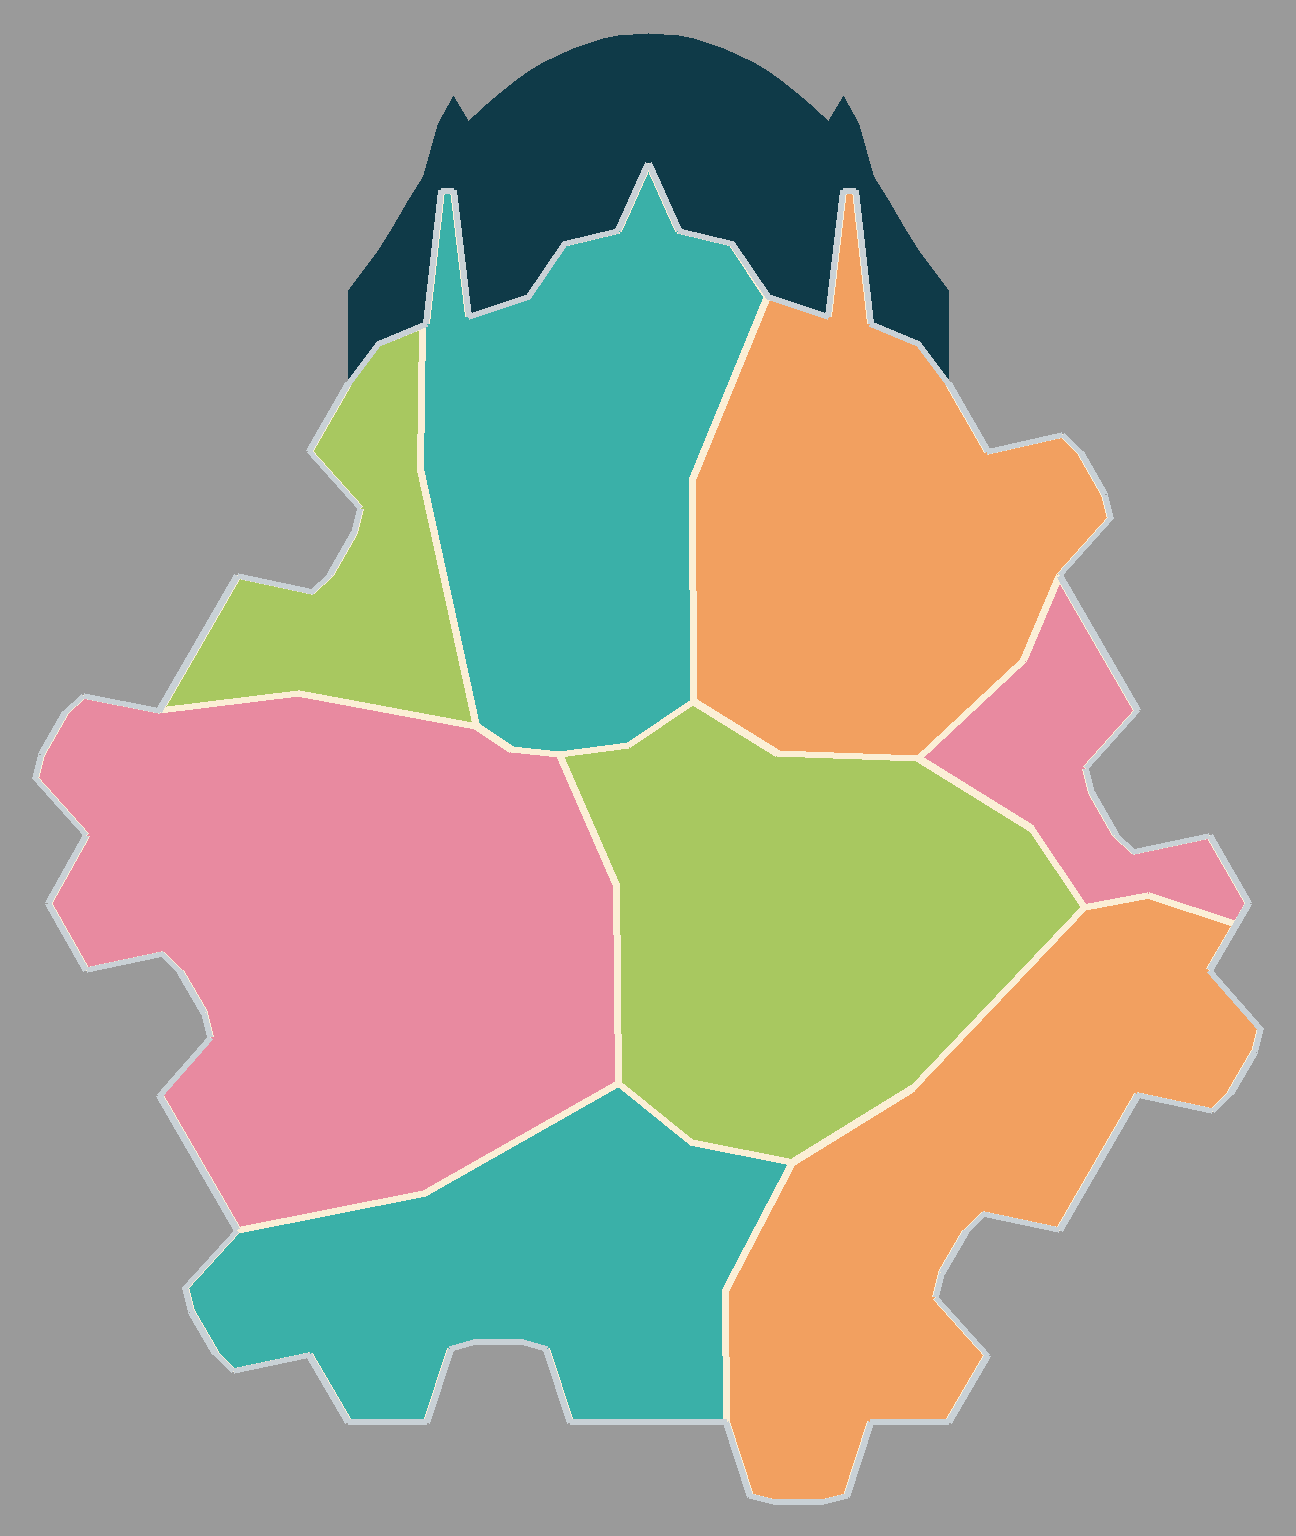
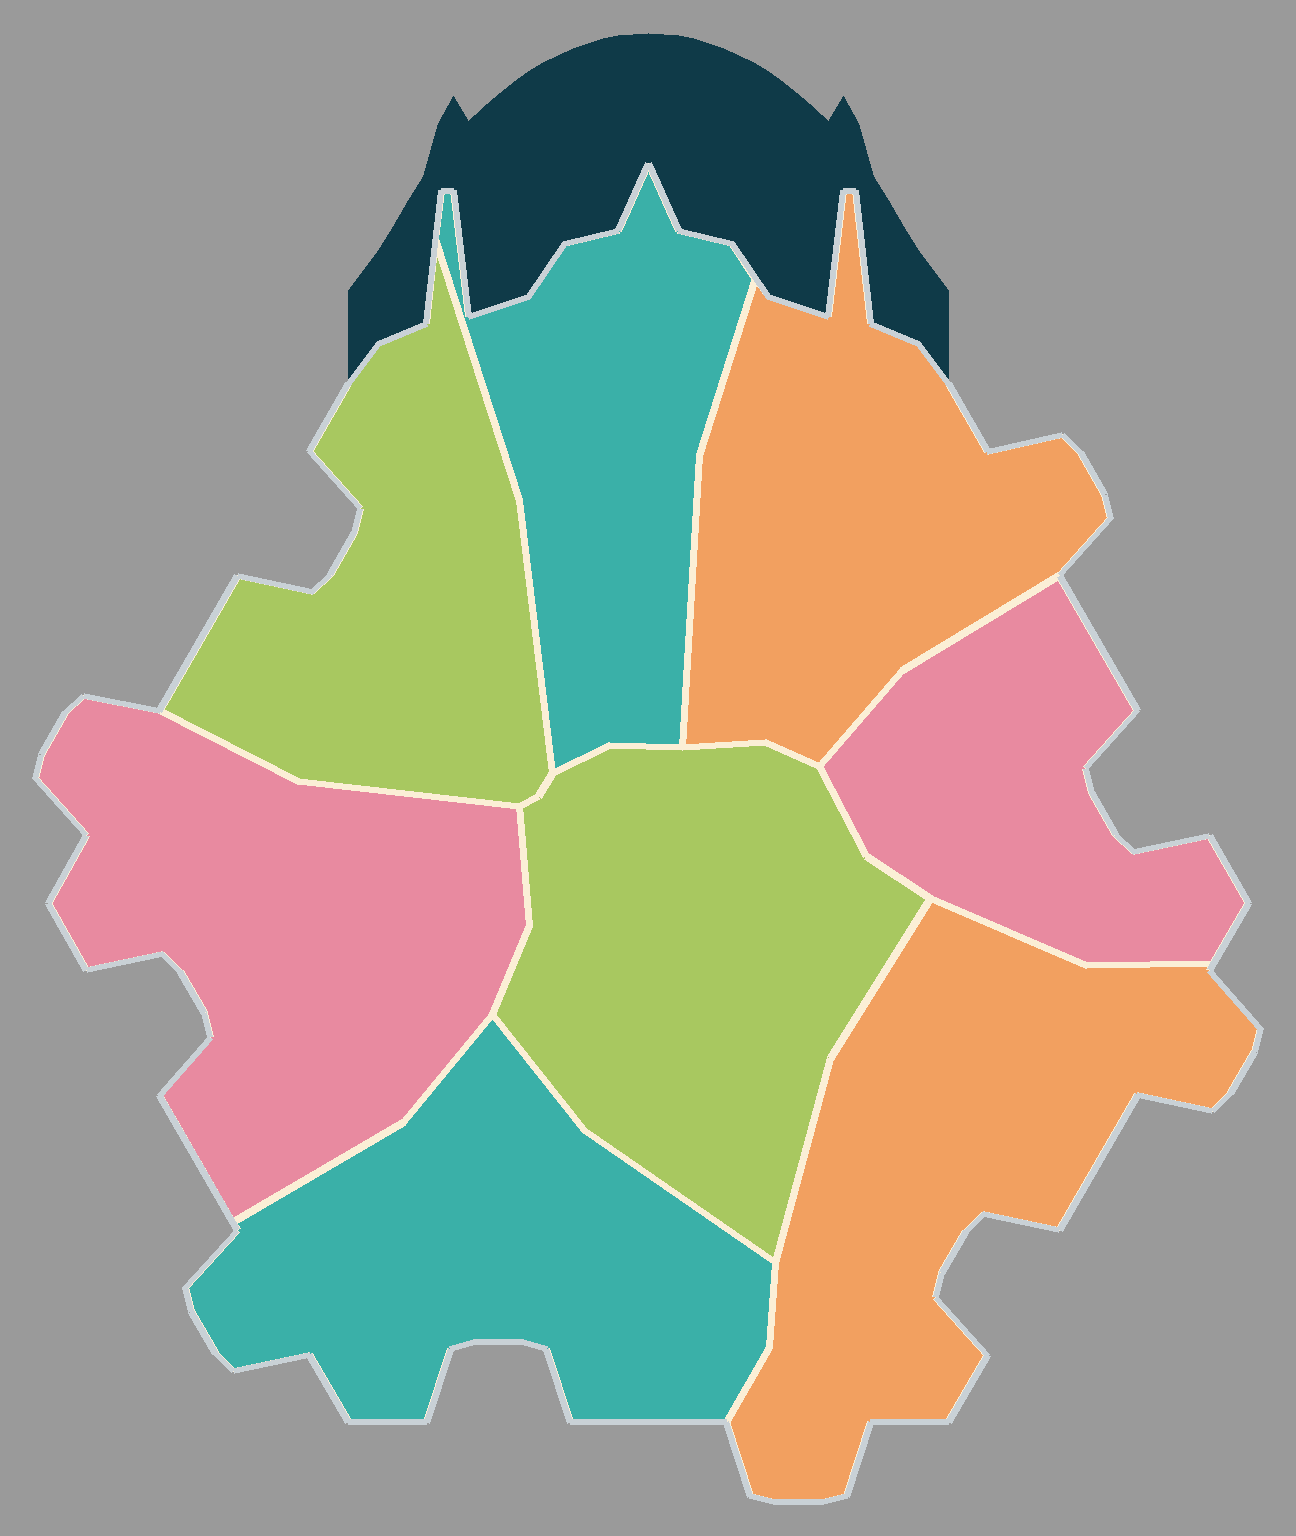
Board C guide redrawn for the evened-out layout; old art kept as board_c_v2_old*; batch 10 (board C repaint) submitted
Claude-Session: https://claude.ai/code/session_014To8X9aHo3rSPP2S9tniN3

Changed region(s): [[0.1235, 0.1562, 0.6173, 0.9375], [0.4938, 0.375, 0.9568, 0.75], [0.5247, 0.1875, 0.5864, 0.3438]]

diff --git a/generation-ship/tools/make_retro_batch.py b/generation-ship/tools/make_retro_batch.py
@@ -79,6 +79,7 @@ HOUSE_LOOK.update(HOUSE_LOOK_2)
 EDITS_8 = {**{f"card_frame_v4{v}": ("card_frame_v4", "card_guide.png", "1104x1504", 1) for v in "ab"},
            **{f"wall_panel_v4{v}": ("wall_panel_v3", "wall_guide.png", "2320x960", 1) for v in "ab"}}
 EDITS_9 = {"board_d_v2": ("board", "board_d_guide.png", "1296x1536", 2)}   # board D reshaped (2026-11-06)
+EDITS_10 = {"board_c_v2": ("board", "board_c_guide.png", "1296x1536", 2)}  # board C evened out (2026-11-06)
 GENERATIONS = {
     "card_back": ("card_back", None, "1104x1504", 1),
     **{f"icon_{t}": (f"icon_{t}", None, "1024x1024", 1) for t in ("infrastructure", "residential", "government", "agricultural")},
@@ -129,14 +130,14 @@ def build(jobs, endpoint, style, ps):
 def main():
     import argparse
     ap = argparse.ArgumentParser()
-    ap.add_argument("--batch", type=int, default=2, choices=(2, 3, 4, 5, 6, 7, 8, 9))
+    ap.add_argument("--batch", type=int, default=2, choices=(2, 3, 4, 5, 6, 7, 8, 9, 10))
     batch = ap.parse_args().batch
-    ps = prompts({7: 6, 9: 2}.get(batch, batch))   # batch 7 reuses batch 6 (house boards), batch 9 batch 2 (boards)
+    ps = prompts({7: 6, 9: 2, 10: 2}.get(batch, batch))   # batch 7 reuses batch 6 (house boards), batch 9 batch 2 (boards)
     if batch == 9:
         ps = prompts(2)                            # batch 9 reuses batch 2's board prompt
     if batch == 8:
         ps = {**prompts(3), **ps}                  # batch 8's Wall reuses batch 3's wall_panel_v3
-    edits, gens = {2: (EDITS, GENERATIONS), 3: (EDITS_3, GENERATIONS_3), 4: ({}, GENERATIONS_4), 5: (EDITS_5, {}), 6: (EDITS_6, {}), 7: (EDITS_7, {}), 8: (EDITS_8, {}), 9: (EDITS_9, {})}[batch]
+    edits, gens = {2: (EDITS, GENERATIONS), 3: (EDITS_3, GENERATIONS_3), 4: ({}, GENERATIONS_4), 5: (EDITS_5, {}), 6: (EDITS_6, {}), 7: (EDITS_7, {}), 8: (EDITS_8, {}), 9: (EDITS_9, {}), 10: (EDITS_10, {})}[batch]
     text = (ROOT / "art" / "CHATGPT_PROMPTS.md").read_text()
     sec = text.split("## D · Retro Space", 1)[1]
     opener = re.search(r"\*\*Opener\*\*\n```\n(.*?)\n```", sec, re.S).group(1)
